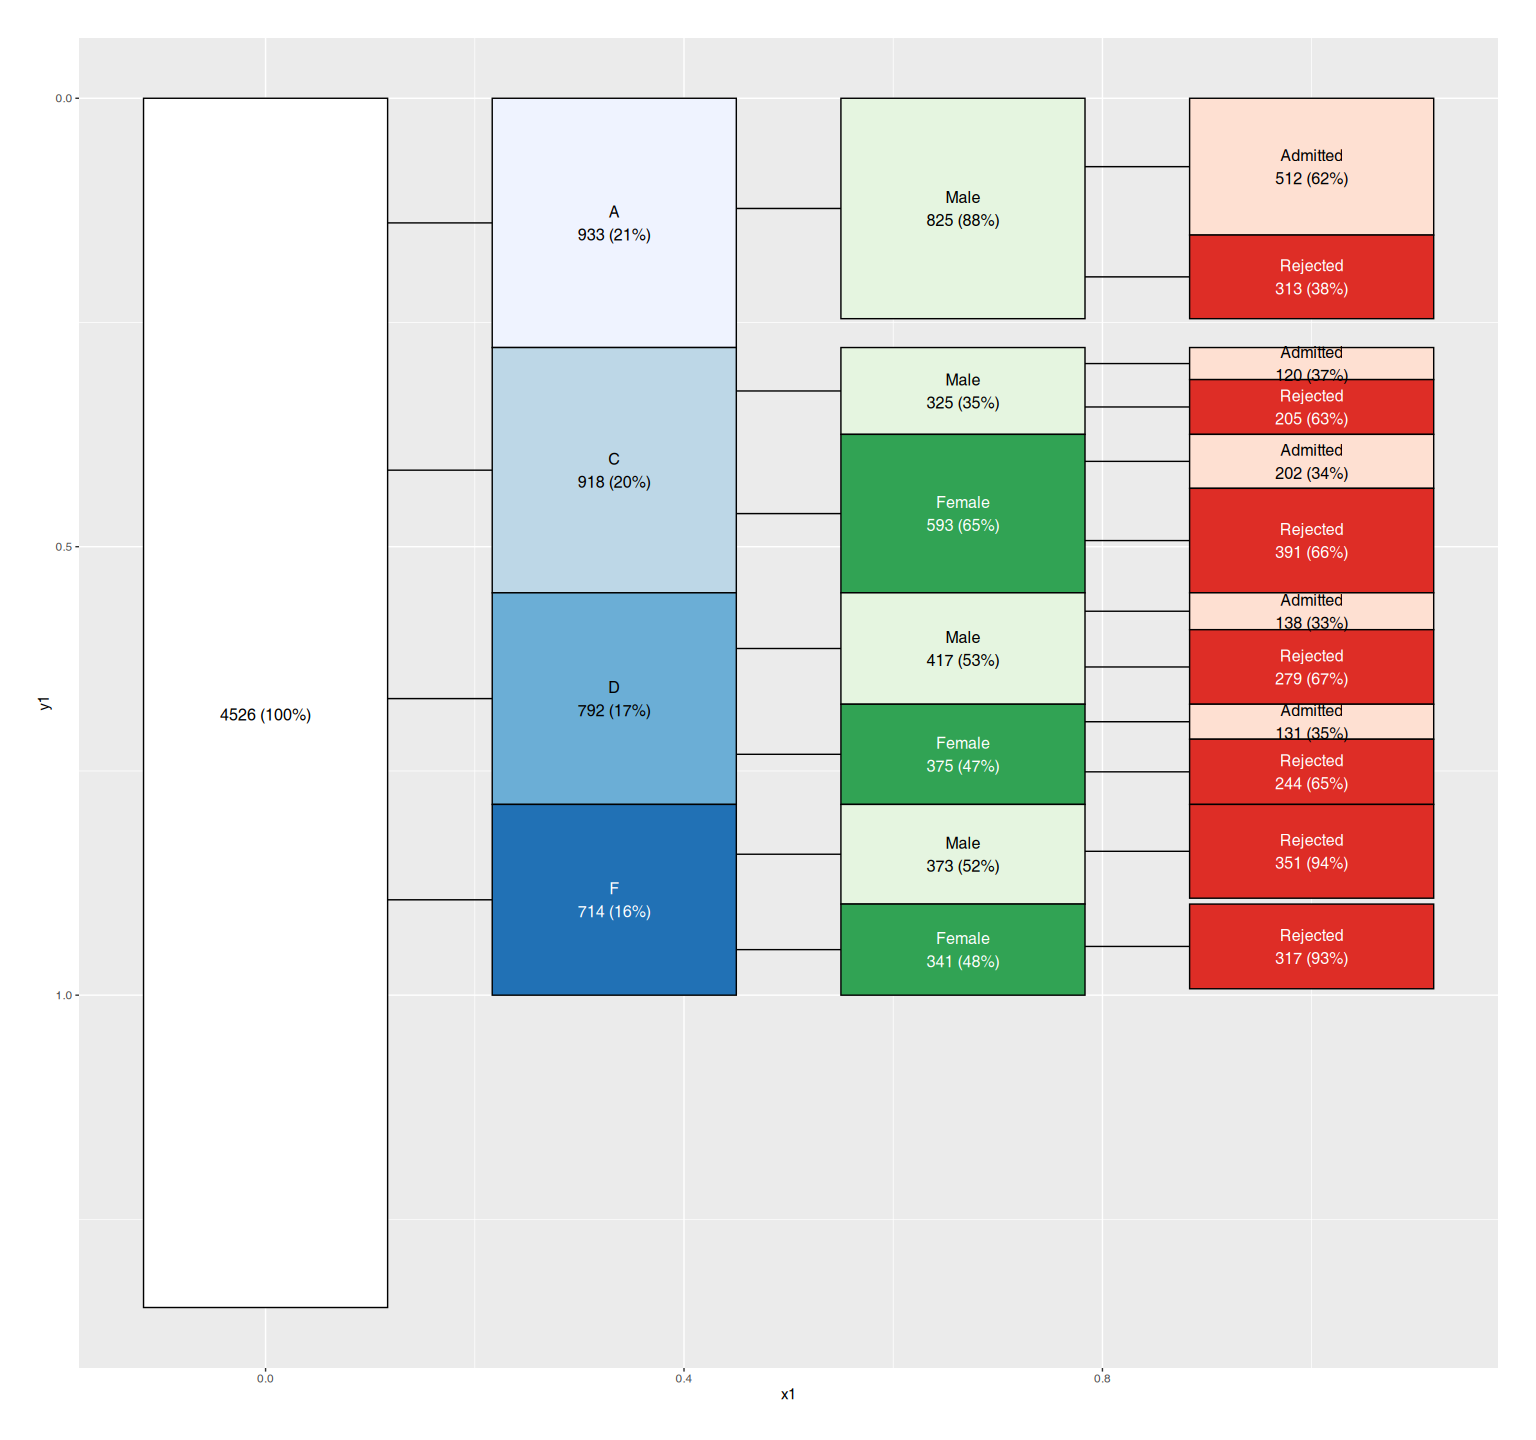
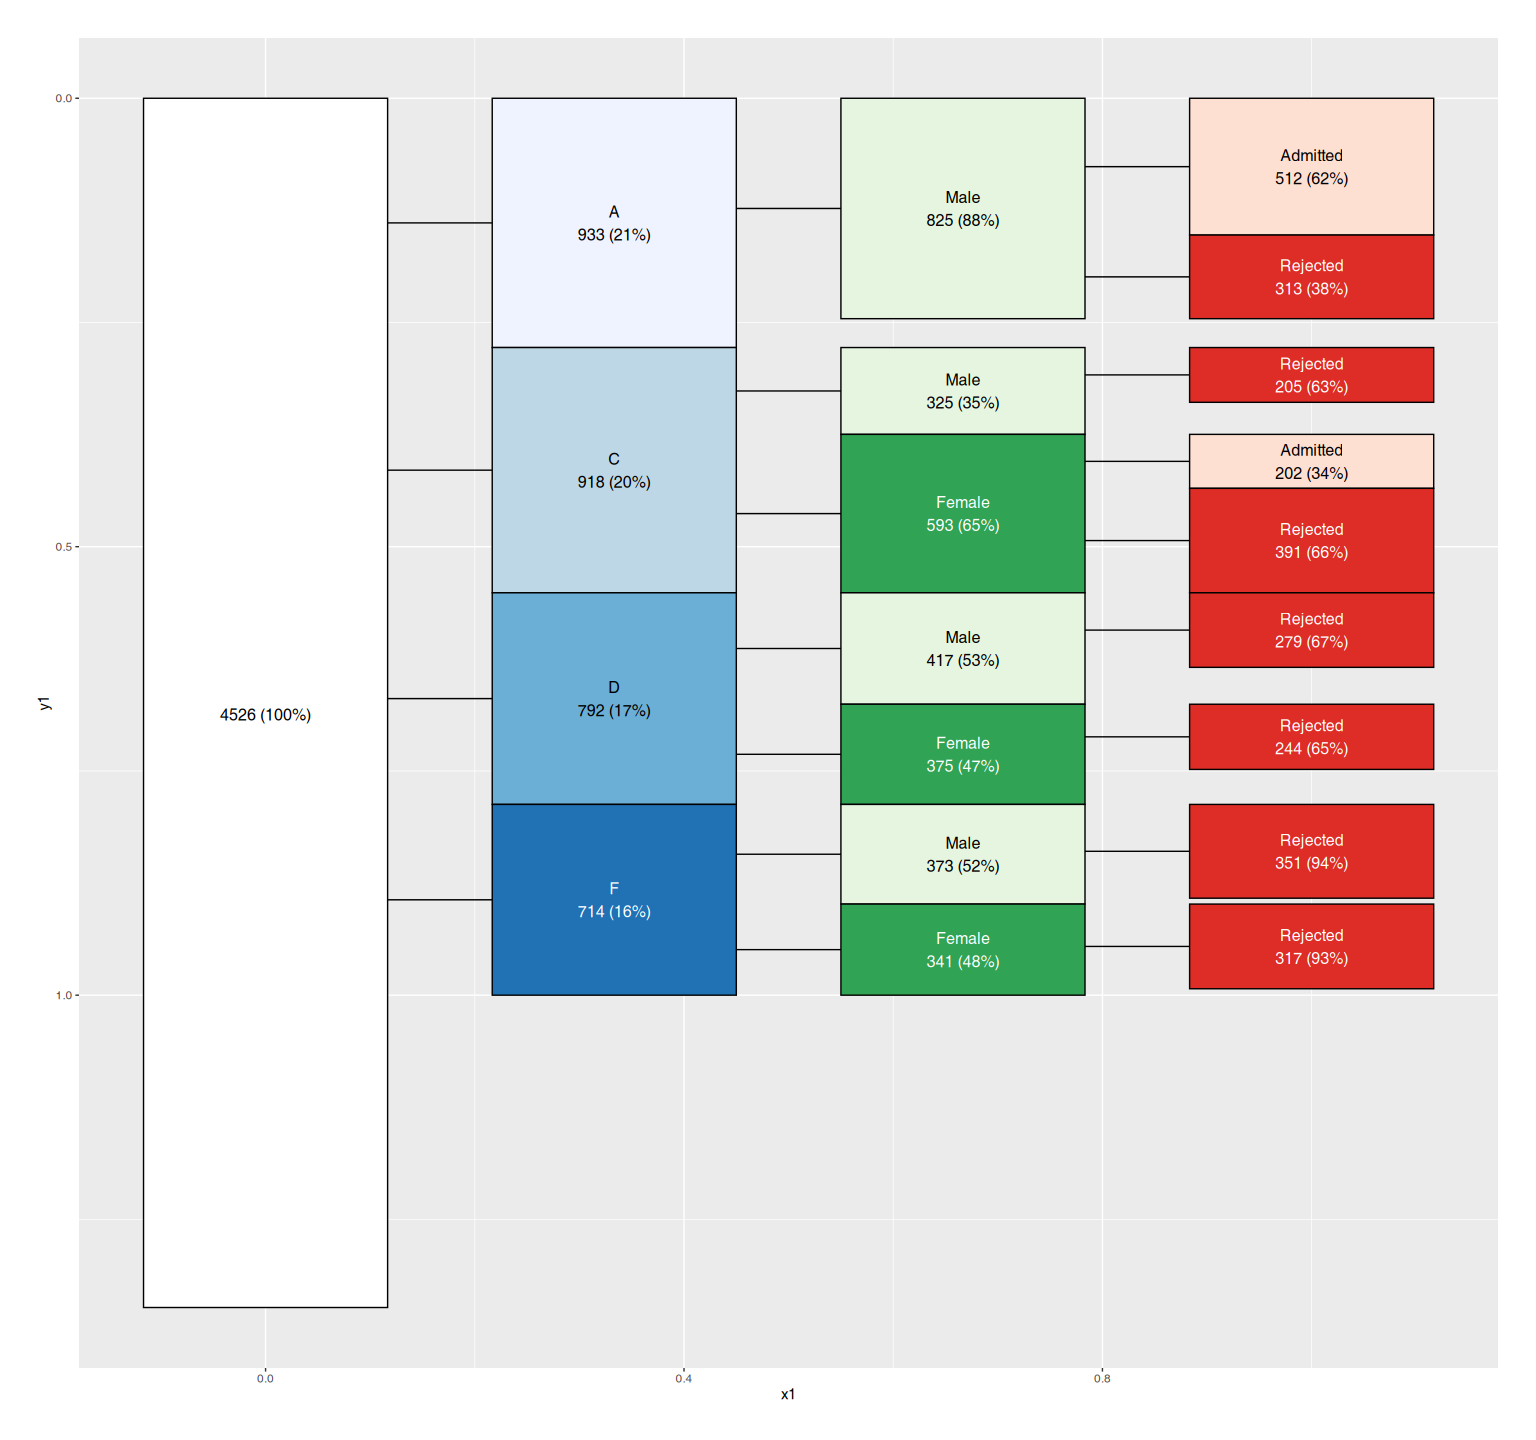
updated readme

Changed region(s): [[0.75, 0.4062, 0.9375, 0.5625], [0.7188, 0.2188, 0.9375, 0.3125]]

diff --git a/README.md b/README.md
@@ -64,7 +64,7 @@ condition and remove them (along with their children) from the vtree:
 ``` r
 ucb <- cases_from_freqtable(UCBAdmissions)
 vt <- vtree(ucb, Dept, Gender, Admit) |>
-  prune(n < 100 | freq < .15)
+  prune(n < 150 | freq < .15)
 plot(vt, proportional = TRUE)
 ```
 